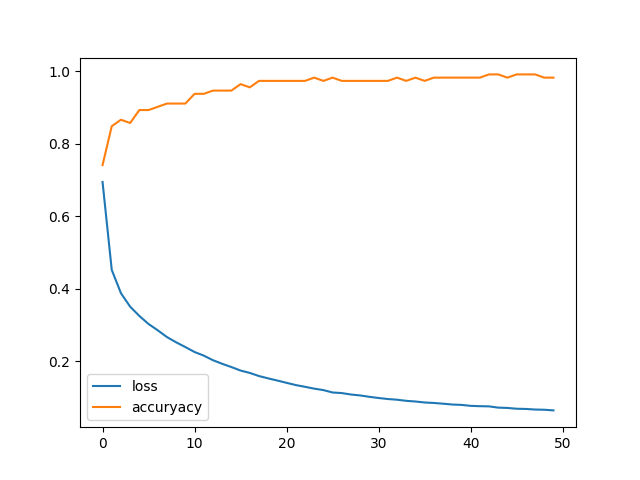
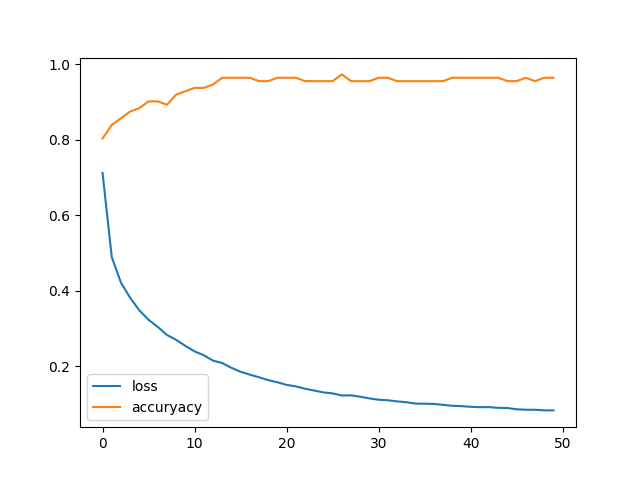
parameter

diff --git a/Kaggle/src/DeepLearning-Tutorial/4.2.2.py b/Kaggle/src/DeepLearning-Tutorial/4.2.2.py
@@ -28,9 +28,9 @@ from tensorflow.keras.models import Sequential
 from tensorflow.keras.layers import Dense, Activation
 
 model= Sequential()
-model.add(Dense(1024, input_dim=4))
+model.add(Dense(4096, input_dim=4))
 model.add(Activation('tanh'))
-model.add(Dense(1024))
+model.add(Dense(4096))
 model.add(Activation('tanh'))
 model.add(Dense(3))
 model.add(Activation('softmax'))
